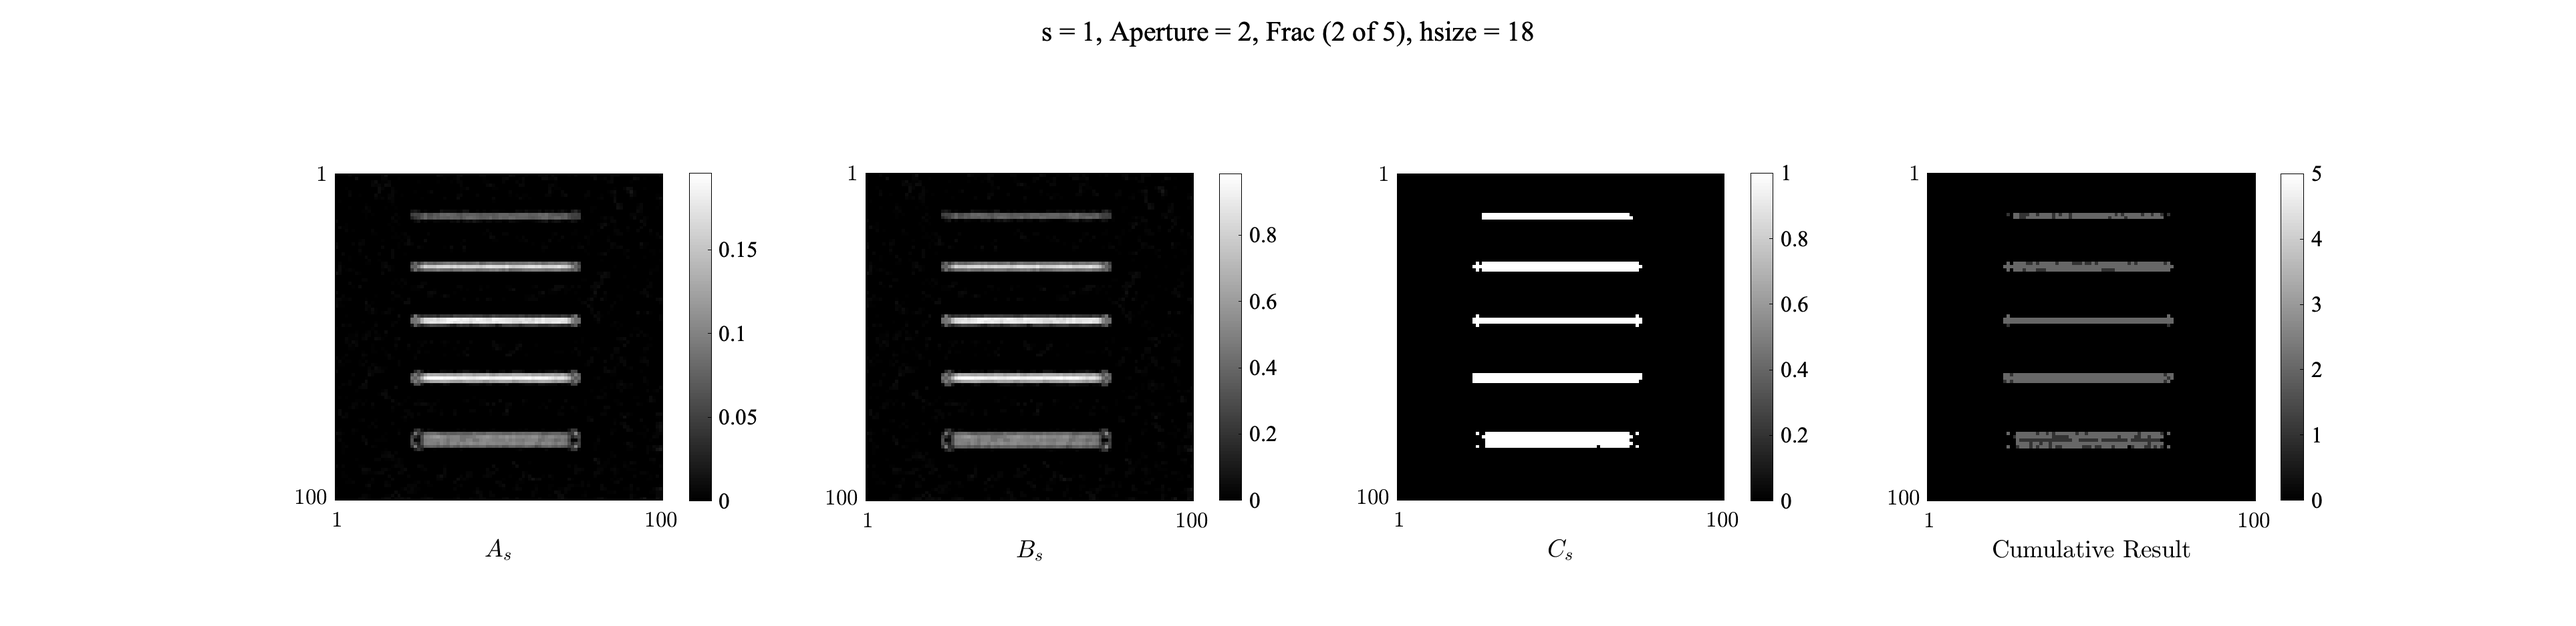
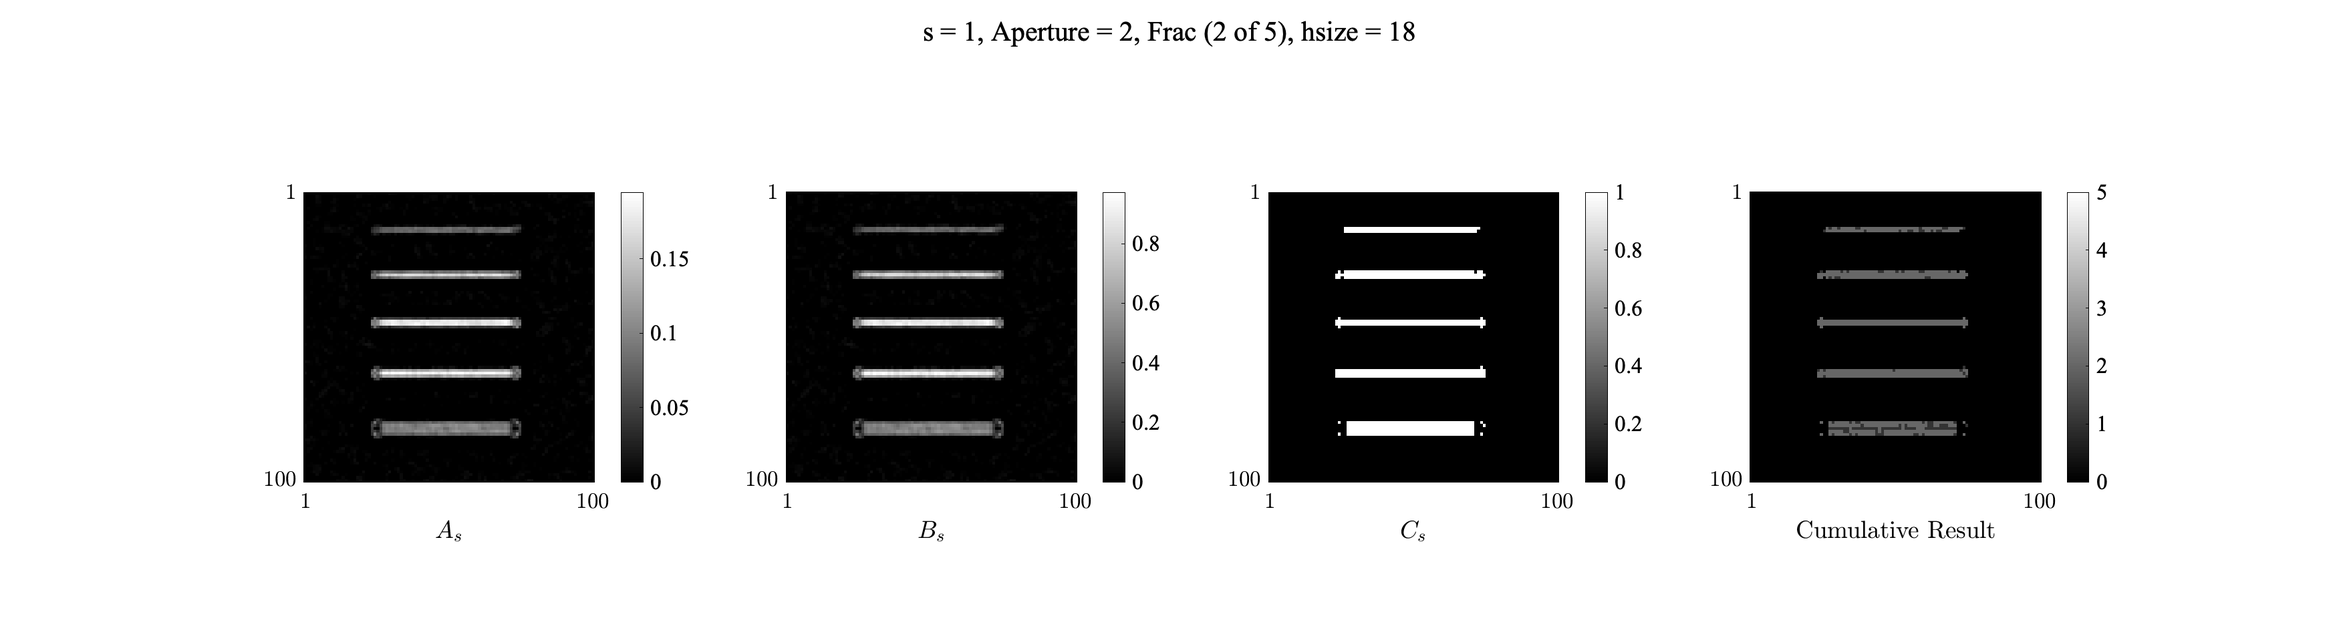
script updates
Former-commit-id: 893b4096a6bc65ca26b5df02967547316a92334b

diff --git a/scripts/matlab/generateSynthFracs3D.m b/scripts/matlab/generateSynthFracs3D.m
@@ -9,7 +9,9 @@
 % adding the directory funtions that contains the functions used in this
 % script
 addpath('functions'); 
-saveFigures = 1; 
+
+saveFigures = 0; 
+writeImages = 1;
 
 % USER SPECIFIED PARAMETERS 
 % Givin an image dimentions (either 2D or 3D)
@@ -24,43 +26,44 @@ if not(exist(targetdir,'dir')), mkdir(targetdir); end
 addpath(genpath(targetdir));
 
 %% Generating crisp (not blurred) images
+
 img(1).img          = MakeFracImage3D(dim,fracAps);
-for i = 1:3
-    imwrite(img(1).img(:,:,i),[targetdir,filesep,'synthetic_',num2str(i),'.tif']); 
-end
 img(1).description  = "Synthetic Fracture Image (SFI)";
 img(1).abreviation  = "SFI";
-img(2).img          = MakeFracImage3D(dim,fracAps,true,SNR);
-for i = 1:3
-    imwrite(img(2).img(:,:,i),[targetdir,filesep,'synthetic+noise_',num2str(i),'.tif']);
-end
-img(2).description = "SFI + Noise";
-img(2).abreviation = "SFIN";
 
-% Generating blurred images
+if writeImages; writeimageseq(img(1).img,targetdir,'synthetic_','.tif'); end %#ok<*UNRCH>
+
+% Crips noisy image
+img(2).img          = MakeFracImage3D(dim,fracAps,true,SNR);
+img(2).description  = "SFI + Noise";
+img(2).abreviation  = "SFIN";
+
+if writeImages; writeimageseq(img(2).img,targetdir,'synthetic+noise','.tif'); end %#ok<*UNRCH>
+
+% Blurring clean image
 img(3).img          = imboxfilt3(img(1).img,filterSize);
-for i = 1:3
-    imwrite(img(3).img(:,:,i),[targetdir,filesep,'synthetic+blurred_',num2str(i),'.tif']); 
-end
 img(3).description  = "Synthetic Blurred Fracture Image (SBFI)";
 img(3).abreviation  = "SBFI";
+
+if writeImages; writeimageseq(img(3).img,targetdir,'synthetic+blurred','.tif'); end %#ok<*UNRCH>
+
+% Blurry noisy image
 for i = 1:3
     img(4).img      = AddNoise(img(3).img,SNR);
-end
-
-for i = 1:3 
-    imwrite(img(4).img(:,:,i),[targetdir,filesep,'synthetic+blurred+noise_',num2str(i),'.tif']); 
 end
 img(4).description  = "SBFI + Noise";
 img(4).abreviation  = "SBFIN";
 
-% generating a sequence of 27 images to use with Voorn
-for i = 1:27
-    tmp = MakeFracImage2D(dim,fracAps,true,SNR);
-    tmp = imboxfilt(tmp,filterSize);
-    imwrite(tmp,[targetdir,filesep,'voorn-input_',num2str(i),'.tif']);
-end
-% Displaying produced images
+if writeImages; writeimageseq(img(4).img,targetdir,'synthetic+blurred+noise','.tif'); end %#ok<*UNRCH>
+
+% % generating a sequence of 27 images to use with Voorn
+% for i = 1:27
+%     tmp = MakeFracImage2D(dim,fracAps,true,SNR);
+%     tmp = imboxfilt(tmp,filterSize);
+%     imwrite(tmp,[targetdir,filesep,'voorn-input_',num2str(i),'.tif']);
+% end
+
+%% Displaying produced images
 % Crisp images
 fig1 = figure('Position',[100 100 800 800],'Name','Crisp Images');
 subplot(2,2,1);
@@ -80,7 +83,7 @@ dim = size(img(2).img,1);
 traverseXCoor = floor(dim/2);
 ShowProfile(img(2),traverseXCoor,fontSize); 
 % the following line is to save the figures
-if (saveFigures), print([figuresDirectory,'3DSyntheticFractureImages'],'-dpng'); end
+if (saveFigures), print([figuresDirectory,'3DSyntheticFractureImages'],'-dpng'); end 
 
 % blurred images
 fig2 = figure('Position',[100 100 800 800],'Name','Blured Images');
@@ -100,4 +103,4 @@ subplot(2,2,4);
 dim = size(img(4).img,1);
 traverseXCoor = floor(dim/2);
 ShowProfile(img(4),traverseXCoor,fontSize);
-if (saveFigures), print([figuresDirectory,'3DSyntheticBlurredFractureImages'],'-dpng');end
+if (saveFigures), print([figuresDirectory,'3DSyntheticBlurredFractureImages'],'-dpng');end  

diff --git a/scripts/matlab/FracMap_Prototype3D.m b/scripts/matlab/FracMap_Prototype3D.m
@@ -56,12 +56,12 @@ directory   = [figuresDirectory,'hessian_results/'];
 if (not(exist(directory,'dir'))), mkdir(directory);end
 disp("Computing the Hessian using convolutional scheme ...");
 tic
-finalTol    = 0.70 ;
+gamma    = 0.70 ;
 % figure 
 implementation = 2; % 1: finite diff. 2: convolution
 % this loop is for all 4 synthetic images
 for k = 1:4
-    
+%     img(k).mshff = mshff(img(k).img,s,gamma);
     img(k).hessian(2).finalResult.A_s = zeros(size(img(k).img));
     % this loop is for different gaussian scallings (s);
     for  s = 1:length(sigma)
@@ -93,7 +93,7 @@ for k = 1:4
                         img(k).hessian(2).result(s).A_s(j,i,m)                                  = real(img(k).hessian(2).EigValSorted{j,i,m}(3) - abs(img(k).hessian(2).EigValSorted{j,i,m}(2)) - abs(img(k).hessian(2).EigValSorted{j,i,m}(1)));
                         
                         % modifying computing A_s
-                        if img(k).hessian(2).result(s).A_s(j,i,m) <= tol
+                        if img(k).hessian(2).result(s).A_s(j,i,m) <= 0
                             img(k).hessian(2).result(s).A_s(j,i,m) = 0;
                         end
                         
@@ -106,7 +106,7 @@ for k = 1:4
             
             % logical
 %             img(k).hessian(2).result(s).C_s = (img(k).hessian(2).result(s).B_s > (max(img(k).hessian(2).result(s).B_s(:)) * finalTol));
-            img(k).hessian(2).result(s).C_s = (img(k).hessian(2).result(s).B_s > (1 - finalTol));
+            img(k).hessian(2).result(s).C_s = (img(k).hessian(2).result(s).B_s > (1 - gamma));
             %img(k).hessian(2).result(s).D_s = double(img(k).hessian(2).result(s).C_s >= (max(max(max(img(k).hessian(2).result(s).C_s))) - finalTol));
             
             % assembling the final result

diff --git a/scripts/matlab/main.m b/scripts/matlab/main.m
@@ -12,27 +12,8 @@ addpath(genpath('.'));
 
 clearvars; close all; home;
 
-% defining the figures directory
-figuresDirectory = '../../manuscripts/figures/';
-
-%% Synthetic image parametrs. These are used inside the functions gnerateSynthFracs*.m
-
-% defining fracture aparturs use in the 2d and 3d synthetic frac images
-% fracAps = [2,10,15,30];
-fracAps = [1,2,3,4,6];      % simpler for testign code
-
-% defining length of a image single edge [pixels or voxels]
-% dim = 512;
-dim = 100;           % smaller for testing code
-
-% defining Signal to noise ratio (5 --> noise amp is 1/5 of the signal) 
-SNR = 5;
-
-% definig blurring box filter size (must be an odd integer)
-filterSize = 3;
-
-% font size for figures
-fontSize = 16; 
+%% loading parameters
+loadparams; 
 %% setting some style parametrs
 home;
 InitColormaps();
@@ -46,5 +27,4 @@ setEdgerStyle();
 generateSynthFracs3D;
 FracMap_Prototype3D;
 %% Showing Voorns output
-
 showingVoornsOutput;

diff --git a/scripts/matlab/showingVoornsOutput.m b/scripts/matlab/showingVoornsOutput.m
@@ -1,6 +1,5 @@
-
 %% loading the data by choosing the correct directory
-voorndata = loadImage(1,'tif');
+voorndata = uiloadimageseq(1,'tif');
 voorndata.img = 1-voorndata.image; 
 voorndata.description = 'Voorn''s Result';
 
